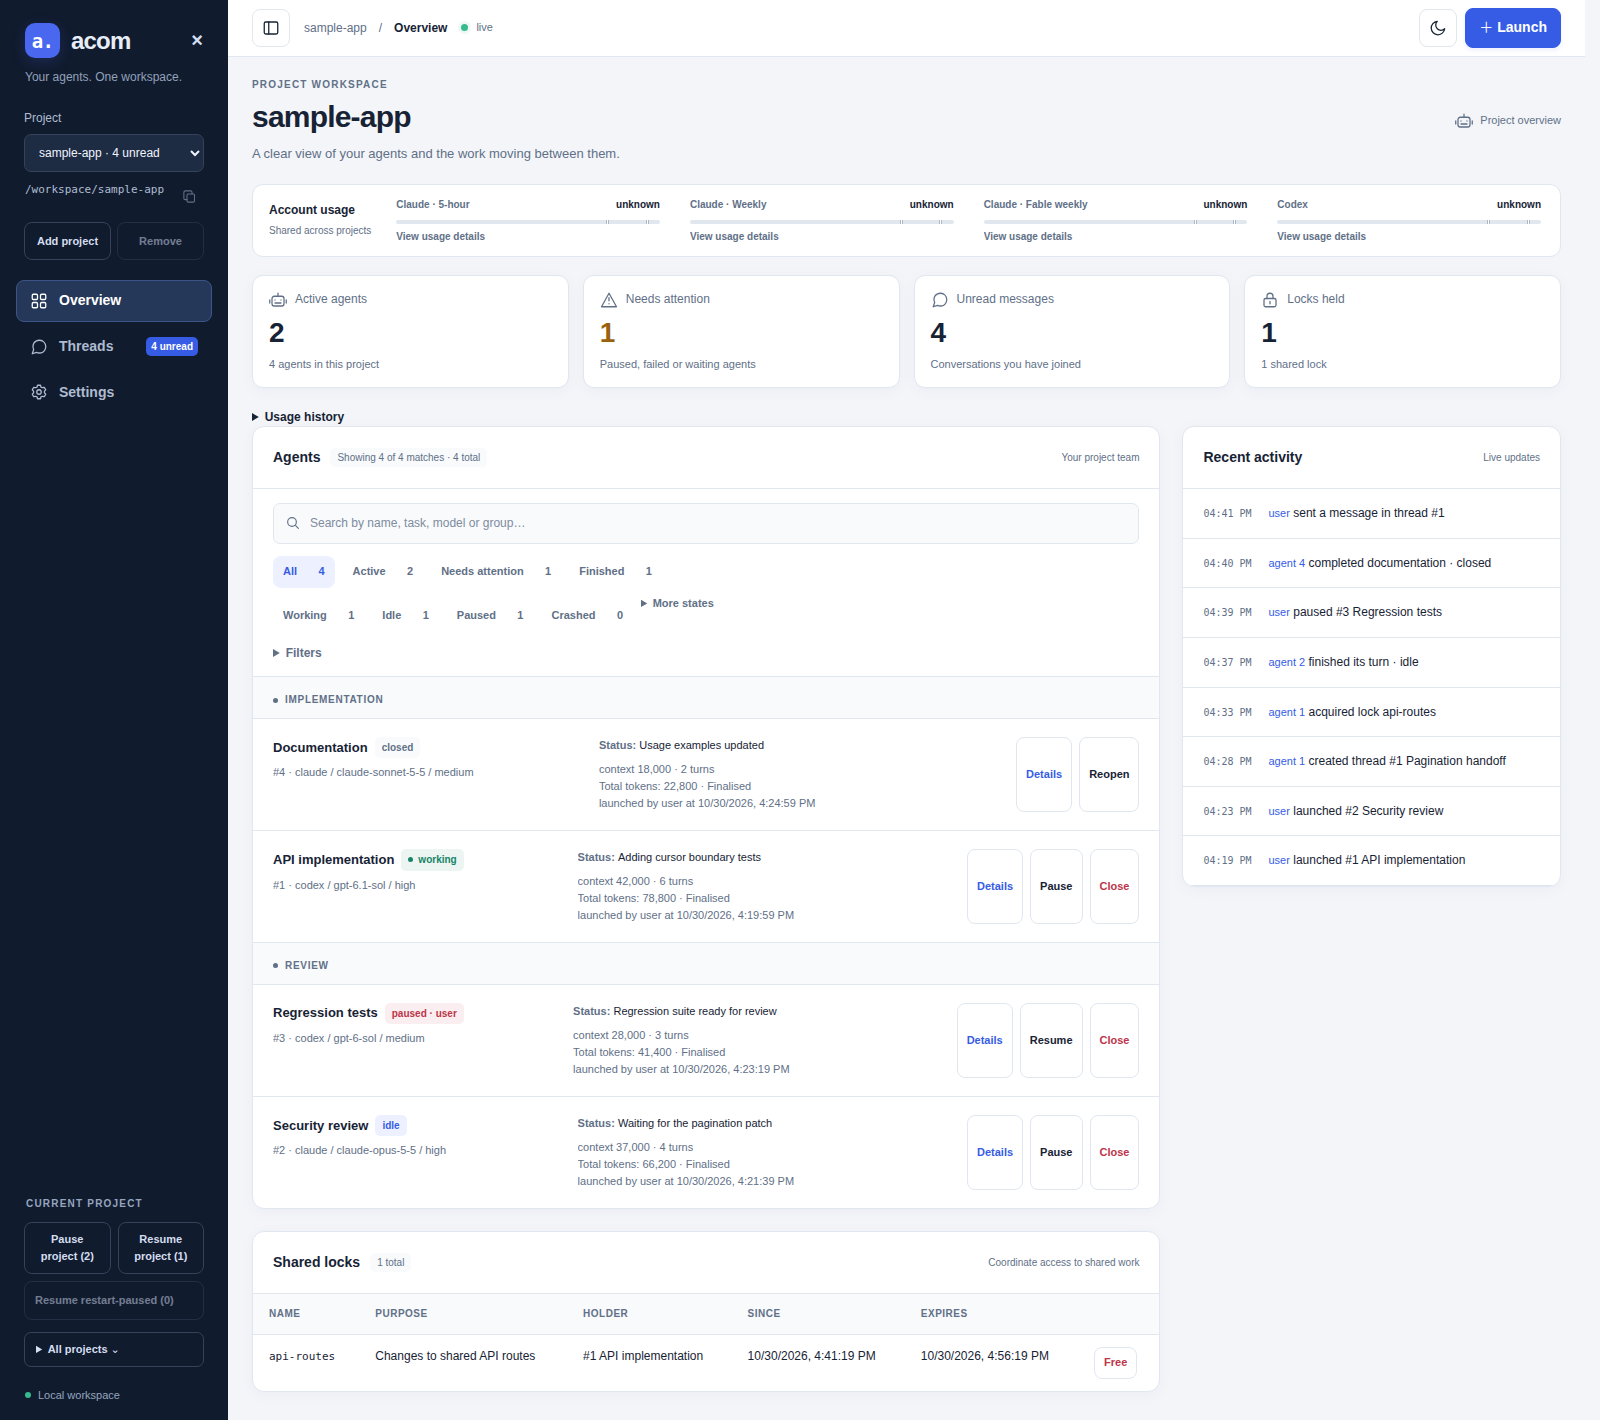
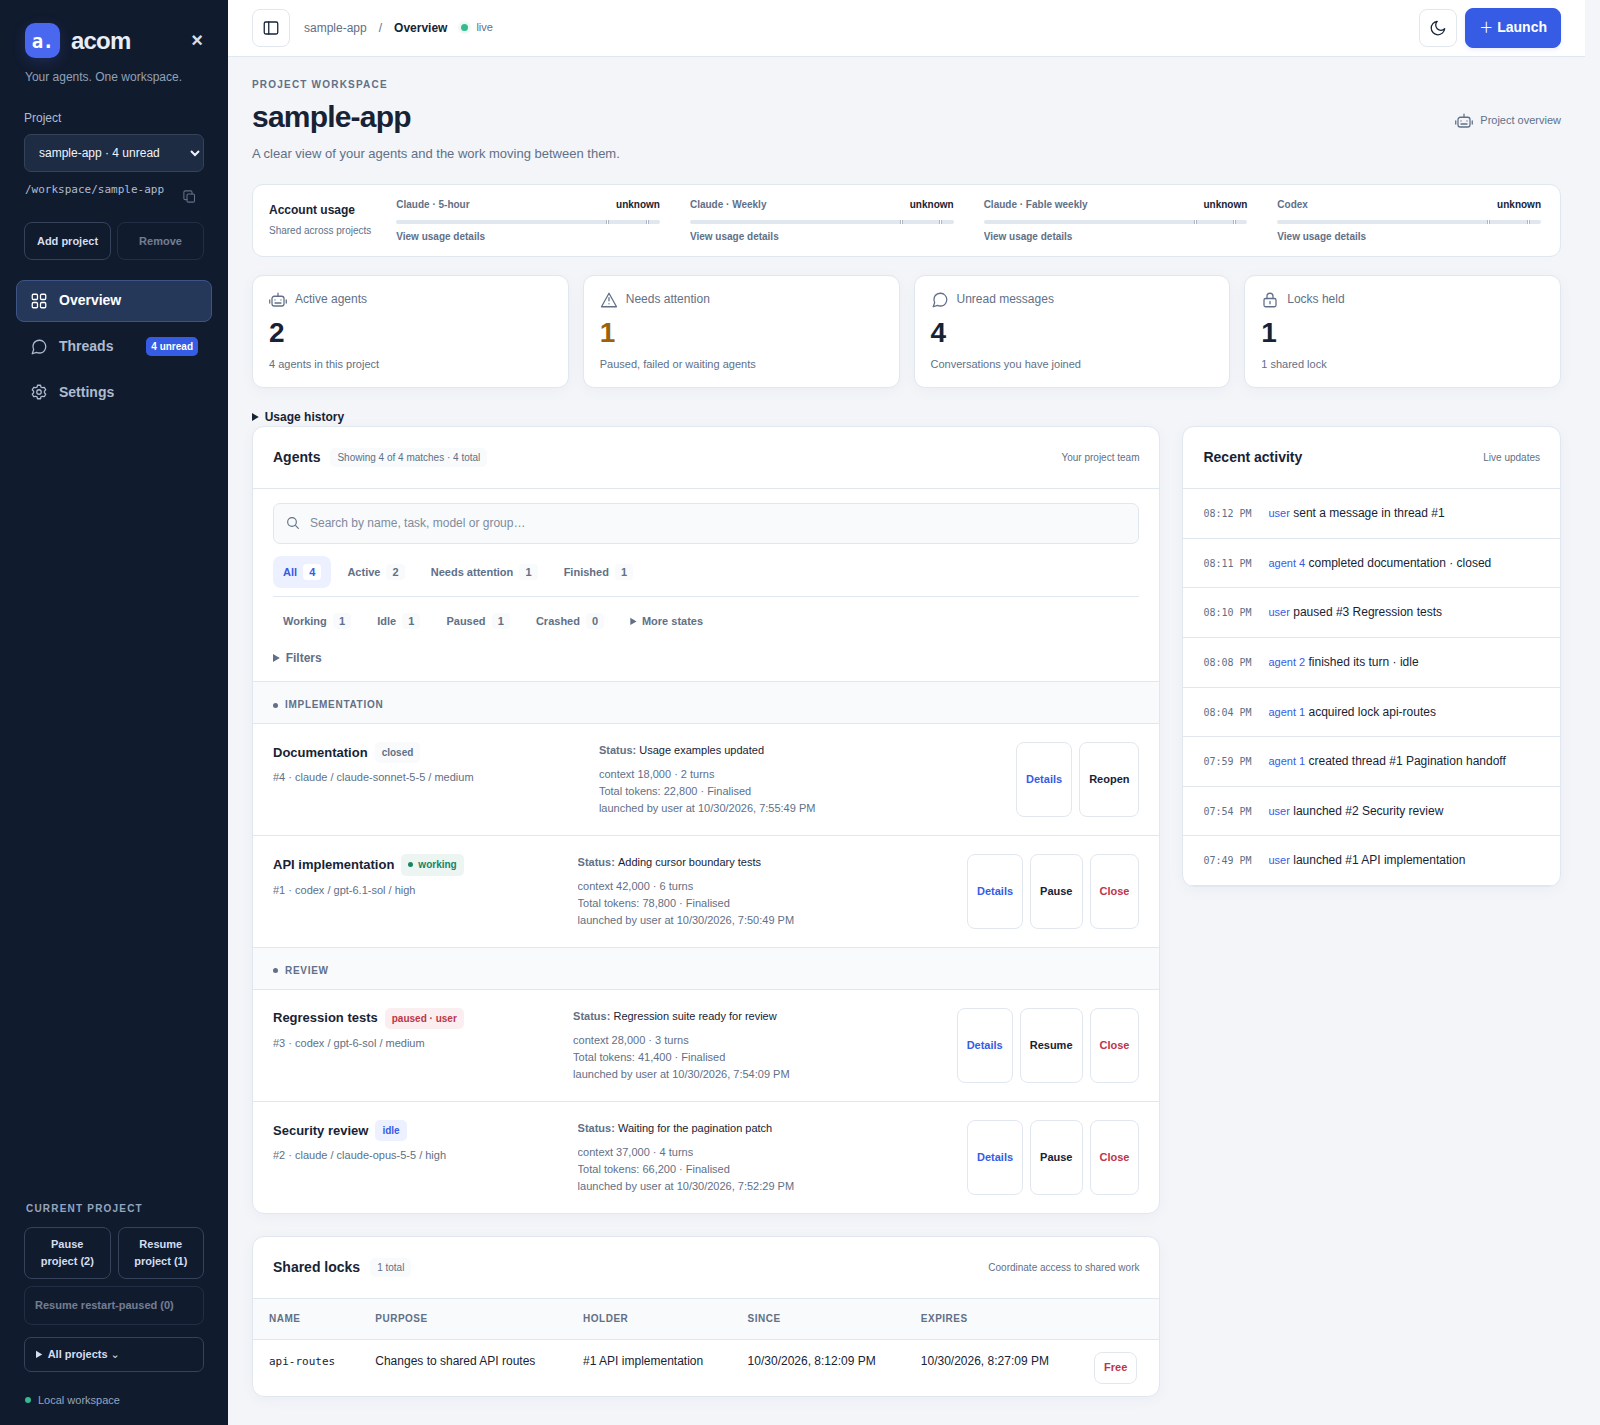
Align agent quick filters and balance their mobile layout

diff --git a/src/ui.html b/src/ui.html
@@ -135,11 +135,17 @@
     .filter-actions button { background: transparent; border-color: transparent; color: var(--muted); }
     .filter-actions .active { background: var(--accent-soft); color: var(--accent); }
     .filter-actions [data-agent-count] { display: inline-block; min-width: 4ch; text-align: right; font-variant-numeric: tabular-nums; }
-    .state-shortcuts { display: flex; align-items: start; gap: 8px; flex-wrap: wrap; }
-    .state-shortcuts > details { padding-top: 7px; }
-    .state-shortcuts > details > summary { color: var(--muted); font-size: 11px; }
-    .agent-toolbar .filter-actions { gap: 8px; }
-    .agent-toolbar .filter-actions button { font-size: 11px; }
+    .agent-toolbar .filter-actions { gap: 6px; }
+    .agent-toolbar .filter-actions button { display: inline-flex; align-items: center; gap: 6px; max-width: 100%; font-size: 11px; line-height: 20px; white-space: nowrap; }
+    .agent-toolbar [data-agent-count] { min-width: 3ch; padding: 0 3px; border-radius: 4px; background: var(--surface); text-align: center; line-height: 16px; }
+    .agent-toolbar .active [data-agent-count] { background: var(--panel); }
+    .state-shortcuts { display: flex; align-items: start; gap: 6px; flex-wrap: wrap; margin-top: 8px; padding-top: 8px; border-top: 1px solid var(--line); }
+    .state-shortcuts .filter-actions { min-width: 0; max-width: 100%; padding: 0; }
+    .state-shortcuts > details { min-width: 0; }
+    .state-shortcuts > details > summary { width: fit-content; min-height: 32px; padding: 5px 9px; border: 1px solid transparent; border-radius: 7px; color: var(--muted); font-size: 11px; line-height: 20px; cursor: pointer; }
+    .state-shortcuts > details > summary:hover, .state-shortcuts > details[open] > summary { background: var(--surface); border-color: var(--line); color: var(--ink); }
+    .state-shortcuts > details[open] { flex-basis: 100%; }
+    .state-shortcuts > details[open] > summary { margin-bottom: 6px; }
     .agent-filters { margin-top: 12px; }
     .agent-filters summary { width: fit-content; cursor: pointer; color: var(--muted); font-size: 12px; }
     .filter-builder { margin-top: 12px; min-width: 0; max-height: 55vh; overflow: auto; }
@@ -431,6 +437,10 @@
       .stats { grid-template-columns: repeat(2,minmax(0,1fr)); } .stat-note { font-size: 10px; }
       .agent { grid-template-columns: minmax(0,1fr); gap: 10px; padding: 16px; } .agent-buttons { grid-column: auto; }
       .panel-head { padding: 14px 16px; } .agent-toolbar { padding: 12px 16px; }
+      .agent-toolbar > .filter-actions, .state-shortcuts > .filter-actions { display: grid; grid-template-columns: repeat(2,minmax(0,1fr)); }
+      .agent-toolbar .filter-actions button { justify-content: space-between; flex-wrap: wrap; gap: 4px; padding-inline: 7px; white-space: normal; }
+      .agent-toolbar [data-agent-count] { min-width: 2ch; }
+      .state-shortcuts > .filter-actions, .state-shortcuts > details { width: 100%; }
       .form-grid { grid-template-columns: minmax(0,1fr); }
       .limit-row { grid-template-columns: minmax(0,1fr) minmax(0,1fr); gap: 10px; } .limit-row strong { grid-column: 1/-1; }
       .model-options label { flex-wrap: wrap; } .model-options code { margin-left: 0; overflow-wrap: anywhere; }
@@ -3446,8 +3456,10 @@
       }
     });
     const stateShortcuts=document.createElement('div');stateShortcuts.className='state-shortcuts';
+    stateShortcuts.setAttribute('role','group');stateShortcuts.setAttribute('aria-label','Agent states');
+    const agentViews=$('.agent-toolbar > .filter-actions');agentViews.setAttribute('role','group');agentViews.setAttribute('aria-label','Agent views');
     const stateShortcut=(key,label)=>`<button type="button" class="small" data-agent-filter="${key}" aria-pressed="false">${label} <span data-agent-count="${key}">—</span></button>`;
-    stateShortcuts.innerHTML=`<div class="filter-actions" aria-label="Agent states">${[['working','Working'],['idle','Idle'],['paused','Paused'],['crashed','Crashed']].map(([key,label])=>stateShortcut(key,label)).join('')}</div><details><summary>More states</summary><div class="filter-actions" aria-label="Additional agent states">${[['done','Done'],['closed','Closed'],['replaced','Replaced']].map(([key,label])=>stateShortcut(key,label)).join('')}</div></details>`;
+    stateShortcuts.innerHTML=`<div class="filter-actions">${[['working','Working'],['idle','Idle'],['paused','Paused'],['crashed','Crashed']].map(([key,label])=>stateShortcut(key,label)).join('')}</div><details><summary>More states</summary><div class="filter-actions" role="group" aria-label="Additional agent states">${[['done','Done'],['closed','Closed'],['replaced','Replaced']].map(([key,label])=>stateShortcut(key,label)).join('')}</div></details>`;
     $('#agent-filters').before(stateShortcuts);
     const threadSortOptions=['latest_message','newest','oldest','title'];
     state.threadSort=threadSortOptions.includes(stored('acom:thread-sort')) ? stored('acom:thread-sort') : 'latest_message';

diff --git a/SPEC.md b/SPEC.md
@@ -278,7 +278,7 @@ Message sender/time/copy controls float outside the bubble: peer metadata on its
 
 Agent search uses the shared query contract below over the whole project, not just loaded previews. The Filters disclosure edits a local expression draft: Match all/any per group, Exclude per group/condition, nested Add condition/group, exact literal alternatives, Text phrases and explicit Ungrouped values. It imports the server-parsed expression, not a second browser grammar; serialization preserves Boolean meaning, negation and necessary grouping. Empty nested groups or unfinished conditions cannot be silently omitted. Apply filters validates with the shared server parser before updating applied search/results; Reset editor discards the draft and imports the current query. Validation errors leave applied results intact. Capture draft/context revisions, project and search while applying; stale responses cannot overwrite subsequent edits or context changes. Dirty drafts survive polling, page switches and collapse, but not reloads. Search/project changes preserve a dirty draft with an explicit conflict and disable Apply until Reset; clean drafts follow valid typed search. Stable editor controls preserve focus and selection. Applied chips open the editor; non-flat expressions remain one chip. Categories are separate restrictions and never switch automatically.
 
-Syntax errors stay inline without displaying stale matches as current or reporting a connection failure. All/Active/Working/Idle/Paused/Crashed and attention/finished-state facets count matching agents before category selection; the header separates loaded matches, matching total and unfiltered project total. Categories can overlap. Pages and counts share parameterized predicates and a read snapshot; cursors bind every normalized filter. Filter changes reset paging and reject stale responses. Project/global lifecycle actions and summary counts stay unfiltered. Thread search still covers loaded titles and IDs. Search/filter choices and input focus survive polling. Settings have section links and a persistent saved/unsaved/read-only/pending-selection indicator.
+Syntax errors stay inline without displaying stale matches as current or reporting a connection failure. All/Active/Working/Idle/Paused/Crashed and attention/finished-state facets count matching agents before category selection; the header separates loaded matches, matching total and unfiltered project total. Summary views and exact-state shortcuts form separate aligned groups, using two-column grids on narrow screens; **More states** expands below the state group. Categories can overlap. Pages and counts share parameterized predicates and a read snapshot; cursors bind every normalized filter. Filter changes reset paging and reject stale responses. Project/global lifecycle actions and summary counts stay unfiltered. Thread search still covers loaded titles and IDs. Search/filter choices and input focus survive polling. Settings have section links and a persistent saved/unsaved/read-only/pending-selection indicator.
 
 Readable agent-output entries capture UTC date/time and a message/tool/error/turn type; Details displays local date/time with seconds. They are abbreviated live-output captures, not a mirror of native conversation history; raw stdout remains separate and missing historical timestamps are not fabricated. On-demand panels page lifecycle changes, subscriptions/deferred waits and coordination warnings. Subscription rows show IDs, conditions, deadlines, completion causes and Cancel; collapsed details retain active/pending counts. Cards identify recorded loop warnings, not a claim that a loop is still running. Foreground wait descriptors expose watched targets/usage conditions and a monotonic remaining timeout while the agent remains working.
 

diff --git a/AGENTS.md b/AGENTS.md
@@ -28,5 +28,6 @@ Contributor instructions for editing this repository. These are separate from th
 ## Verification and handoff
 
 - For behavior changes, add a regression that fails before the fix. Cover valid input and rejection/no-side-effects, direct API bypass of client checks, and affected failure/restart/concurrency paths. Test shared behavior through each affected entry point.
+- For UI layout changes, inspect rendered desktop and narrow-screen screenshots, including empty and populated states. Functional tests alone do not establish a usable layout.
 - Use the [README test instructions](README.md#test). Isolate data, ports, credentials, fake clients and builds from running instances. Never alter live data or replace a live executable as a test. Real-provider tests spend usage and require explicit user approval.
 - Report what changed, evidence, tests run/skipped and remaining gaps. Documentation alone is not a fix or a guarantee: enforce contracts in code and tests, and extend these rules when a new general failure pattern is confirmed.
